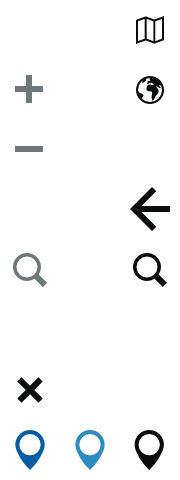
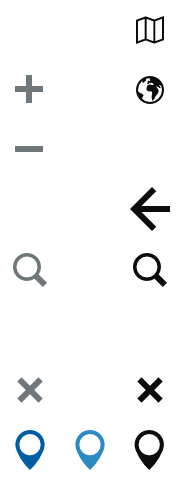
Close button added to tooltip
Key close button fix

Changed region(s): [[0.75, 0.7812, 0.9167, 0.8438], [0.0833, 0.7812, 0.25, 0.8438]]

diff --git a/server/public/static/javascripts/components/map-container.js b/server/public/static/javascripts/components/map-container.js
@@ -53,6 +53,14 @@
     var overlayInnerElement = document.createElement('div')
     overlayInnerElement.classList.add('ol-overlay-inner')
 
+    // Close overlay button
+    var closeOverlayButton = document.createElement('button')
+    closeOverlayButton.appendChild(document.createTextNode('Close'))
+    closeOverlayButton.className = 'ol-close-overlay'
+    closeOverlayButton.addEventListener('click', function (e) {
+      this.hideOverlay()
+    }.bind(this))
+
     // Create zoom buttons
     var zoomButton = document.createElement('button')
     zoomButton.appendChild(document.createTextNode('Zoom'))
@@ -65,7 +73,6 @@
     var hideMapButton = document.createElement('button')
     hideMapButton.className = 'defra-map__exit-map-btn'
     hideMapButton.appendChild(document.createTextNode('Exit map'))
-
     hideMapButton.addEventListener('click', function (e) {
       hideMap()
     })
@@ -163,6 +170,7 @@
 
       this.overlay.element.style.display = 'block'
       map.addOverlay(this.overlay)
+      overlayInnerElement.parentNode.insertBefore(closeOverlayButton, overlayInnerElement)
     }
 
     // Hide overlay

diff --git a/client/sass/components/_map.scss b/client/sass/components/_map.scss
@@ -392,7 +392,7 @@
 }
 */
 .ol-overlay-inner {
-  padding:15px;
+  padding:15px 45px 15px 15px;
   position:relative;
   @include govuk-font($size: 16);
   p {
@@ -437,7 +437,27 @@
   }
 }
 */
-
+.ol-close-overlay {
+  position:absolute;
+  right:0px;
+  top:0px;
+  width:40px;
+  height:40px;
+  border:0px;
+  background:yellow;
+  text-indent: -5000px;
+  cursor: pointer;
+  z-index: 2;
+  background-image: url('#{$govuk-images-path}icon-map-controls-2x.png');
+  background-size:90px;
+  background-repeat: no-repeat;
+  background-color:white;
+  color:$govuk-link-colour;
+  background-position:5px -175px;
+} 
+.ol-close-overlay:hover {
+  opacity: 0.75;
+}
 .ol-overlay__symbol {
   position:absolute;
   right:10px;
@@ -766,7 +786,7 @@ input[type="search"].map-search-input::-webkit-search-results-decoration {
     left: auto;
     background-color:white;
     color:$govuk-link-colour;
-    background-position:5px -175px;
+    background-position:-54px -175px;
   }
 }
 .defra-map-key__toggle-key-btn:hover {
